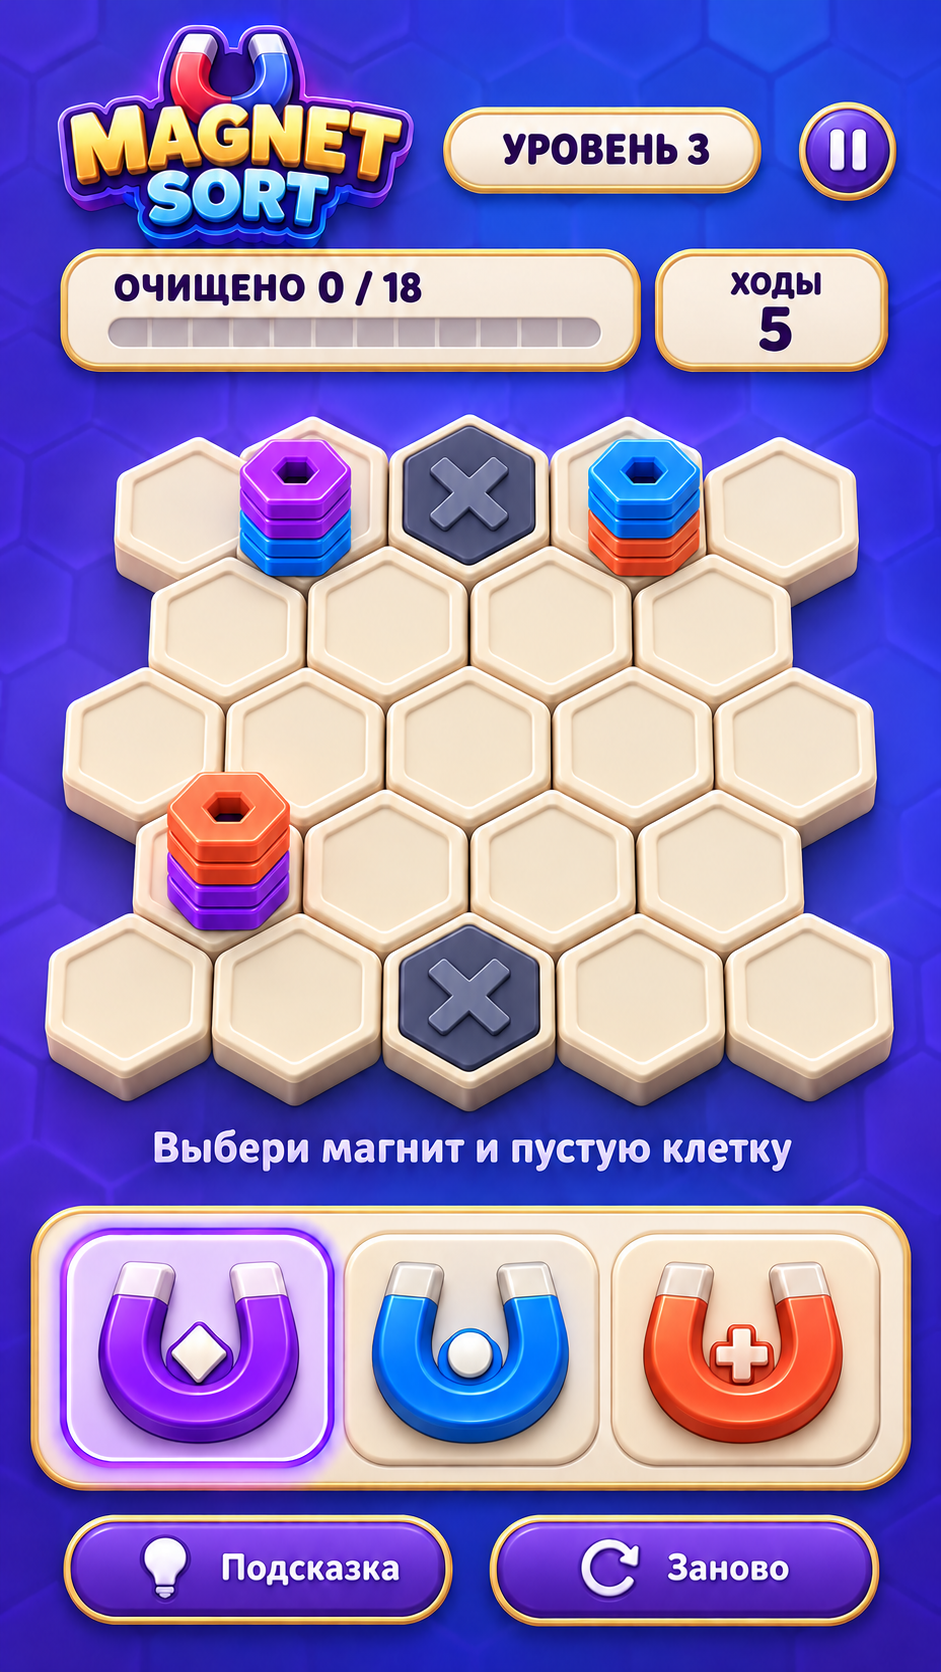
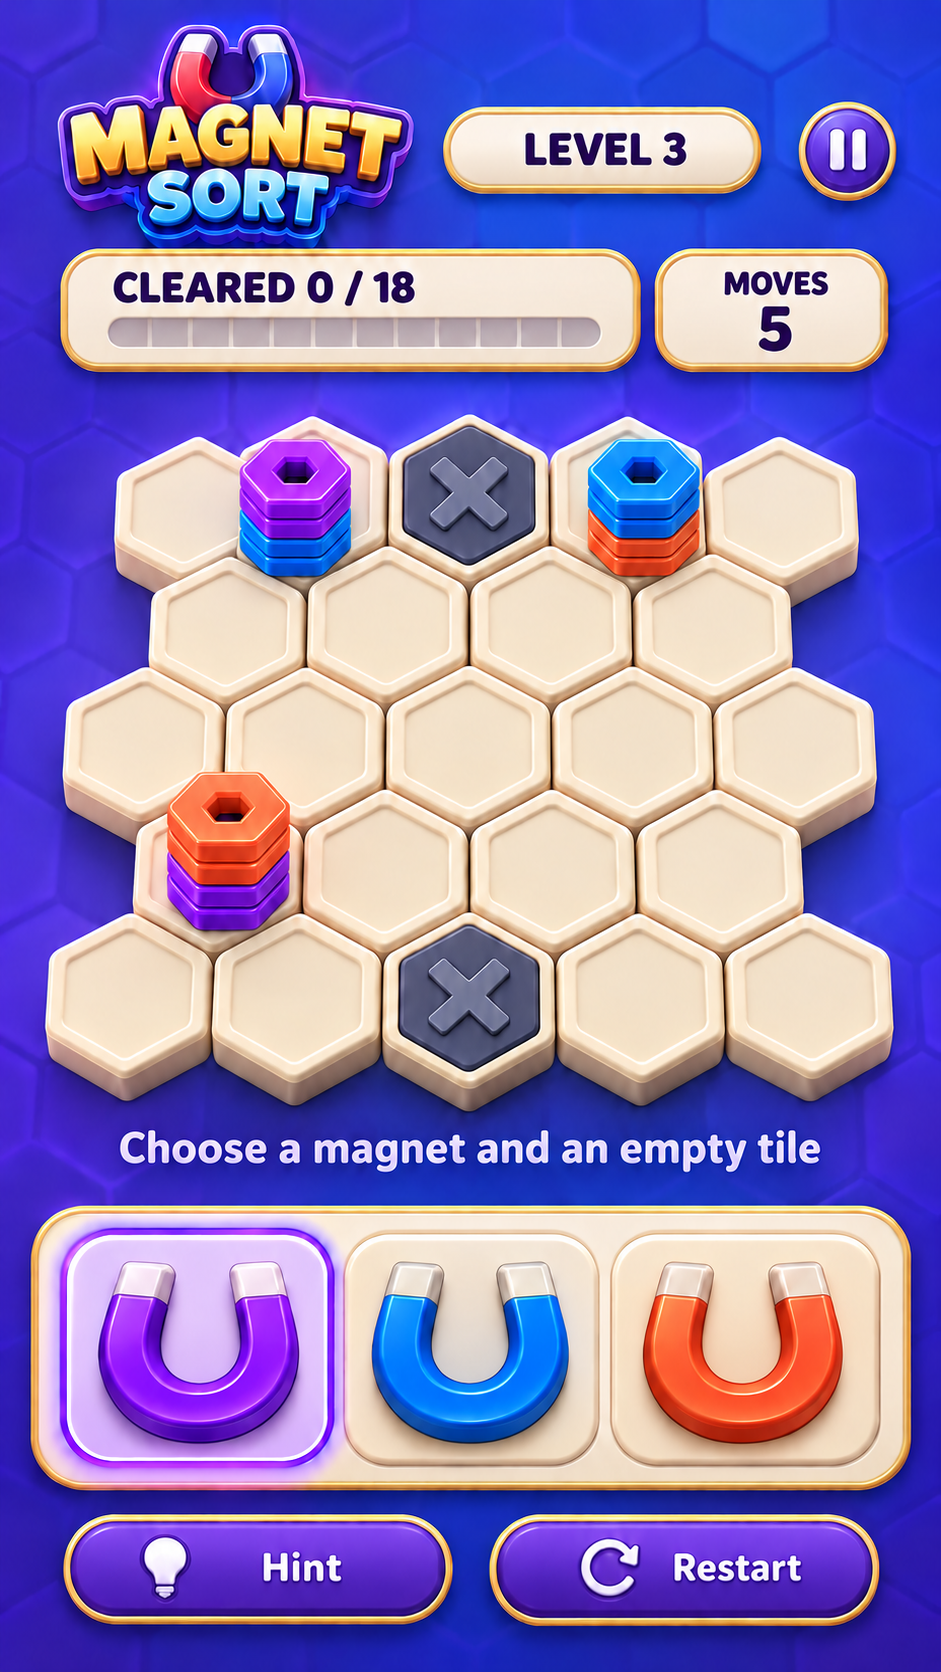
design: translate mockups to English and simplify magnets

diff --git a/docs/design/mockups/2026-10-09-facebook-casual/index.html b/docs/design/mockups/2026-10-09-facebook-casual/index.html
@@ -1,8 +1,8 @@
 <!doctype html>
-<html lang="ru">
+<html lang="en">
 <head>
 <meta charset="UTF-8"><meta name="viewport" content="width=device-width,initial-scale=1">
-<title>Magnet Sort · 12 состояний</title>
+<title>Magnet Sort · 12 game states</title>
 <style>
 :root{color-scheme:dark;font-family:Inter,system-ui,sans-serif;background:#12121b;color:#f6f3ff}
 *{box-sizing:border-box}body{margin:0}button,a{-webkit-tap-highlight-color:transparent}
@@ -30,37 +30,37 @@ dialog::backdrop{background:#08060be8;backdrop-filter:blur(8px)}.viewer{display:
 </style>
 </head>
 <body>
-<header><div class="eyebrow">Визуальная концепция · 09 октября 2026</div>
+<header><div class="eyebrow">Visual concept · 09 October 2026 · English revision</div>
 <h1>Magnet Sort</h1>
-<p>12 мобильных экранов в ярком casual-стиле. Объёмные элементы, магниты и короткие перелёты по одному. Нажми на экран, чтобы рассмотреть детали.</p>
-<nav aria-label="Фильтр состояний">
-<button data-filter="all" aria-pressed="true">Все · 12</button>
-<button data-filter="play" aria-pressed="false">Игра · 7</button>
-<button data-filter="overlay" aria-pressed="false">Пауза и результат · 3</button>
-<button data-filter="service" aria-pressed="false">Запуск · 2</button>
+<p>12 mobile screens in a bright casual style. Glossy pieces, plain color-coded magnets and quick one-piece transfers. Select a screen to explore the details.</p>
+<nav aria-label="Filter game states">
+<button data-filter="all" aria-pressed="true">All · 12</button>
+<button data-filter="play" aria-pressed="false">Gameplay · 7</button>
+<button data-filter="overlay" aria-pressed="false">Pause & results · 3</button>
+<button data-filter="service" aria-pressed="false">Launch · 2</button>
 </nav></header>
 <main><div class="grid" id="grid"></div></main>
-<footer>Мокапы сгенерированы через imagegen; интерфейс игры пока не изменён. Геометрия и раскладка поля иллюстративны — реализация использует реальные данные уровня.
-<br><a href="README.md">Описание и ограничения</a> · <a href="prompts.json">Все промпты</a></footer>
+<footer>Generated with imagegen; the game UI has not been changed. Board geometry and layouts are illustrative; implementation uses actual level data.
+<br><a href="README.md">Notes & limitations</a> · <a href="prompts.json">Prompt set</a></footer>
 <dialog id="detail" aria-labelledby="detail-title"><div class="viewer">
-<div class="toolbar"><h2 id="detail-title"></h2><button class="close" id="close" aria-label="Закрыть">×</button></div>
+<div class="toolbar"><h2 id="detail-title"></h2><button class="close" id="close" aria-label="Close">×</button></div>
 <div class="stage"><img id="full" alt=""></div>
-<div class="controls"><button id="prev" aria-label="Предыдущий экран">← Назад</button><a class="link" id="download" download>Скачать PNG</a><button id="next" aria-label="Следующий экран">Далее →</button></div>
+<div class="controls"><button id="prev" aria-label="Previous screen">← Previous</button><a class="link" id="download" download>Download PNG</a><button id="next" aria-label="Next screen">Next →</button></div>
 <p class="caption" id="caption"></p></div></dialog>
 <script>
-const screens=[{"id":"01-loading","label":"Загрузка","filename":"01-loading.png","category":"service","number":1,"note":"Первый запуск и подготовка поля."},{"id":"02-tutorial","label":"Обучение","filename":"02-tutorial.png","category":"play","number":2,"note":"Первое размещение магнита на пустую клетку."},{"id":"03-playing","label":"Поле готово","filename":"03-playing.png","category":"play","number":3,"note":"Ожидание выбора цвета и клетки."},{"id":"04-placement-valid","label":"Допустимое размещение","filename":"04-placement-valid.png","category":"play","number":4,"note":"Магнит над допустимой пустой клеткой."},{"id":"05-placement-invalid","label":"Недопустимое размещение","filename":"05-placement-invalid.png","category":"play","number":5,"note":"Занятая клетка: ход сохраняется."},{"id":"06-pulling","label":"Притяжение по одному","filename":"06-pulling.png","category":"play","number":6,"note":"Быстрые перелёты отдельных элементов в соседнюю клетку."},{"id":"07-clearing","label":"Очистка группы","filename":"07-clearing.png","category":"play","number":7,"note":"Шесть элементов собраны, группа исчезает."},{"id":"08-hint","label":"Подсказка","filename":"08-hint.png","category":"play","number":8,"note":"Подсвечен следующий допустимый ход."},{"id":"09-paused","label":"Пауза","filename":"09-paused.png","category":"overlay","number":9,"note":"Продолжение, перезапуск и уменьшение движения."},{"id":"10-victory","label":"Победа","filename":"10-victory.png","category":"overlay","number":10,"note":"Поле очищено, переход к следующему."},{"id":"11-defeat","label":"Поражение","filename":"11-defeat.png","category":"overlay","number":11,"note":"Ходы закончились, повтор уровня."},{"id":"12-render-error","label":"Ошибка и повтор","filename":"12-render-error.png","category":"service","number":12,"note":"Повтор запуска после ошибки 3D."}];
+const screens=[{"id":"01-loading","label":"Loading","filename":"01-loading.png","category":"service","number":1,"note":"First launch and board preparation."},{"id":"02-tutorial","label":"Tutorial","filename":"02-tutorial.png","category":"play","number":2,"note":"Place the first magnet on an empty tile."},{"id":"03-playing","label":"Ready to play","filename":"03-playing.png","category":"play","number":3,"note":"Choose a magnet color and an empty tile."},{"id":"04-placement-valid","label":"Valid placement","filename":"04-placement-valid.png","category":"play","number":4,"note":"A magnet over a valid empty tile."},{"id":"05-placement-invalid","label":"Invalid placement","filename":"05-placement-invalid.png","category":"play","number":5,"note":"An occupied tile: no move is spent."},{"id":"06-pulling","label":"Pulling one by one","filename":"06-pulling.png","category":"play","number":6,"note":"Individual pieces flip quickly to the neighboring tile."},{"id":"07-clearing","label":"Clearing a group","filename":"07-clearing.png","category":"play","number":7,"note":"Six collected pieces disappear."},{"id":"08-hint","label":"Hint","filename":"08-hint.png","category":"play","number":8,"note":"A suggested empty tile, before a move is spent."},{"id":"09-paused","label":"Paused","filename":"09-paused.png","category":"overlay","number":9,"note":"Resume, restart and reduced motion."},{"id":"10-victory","label":"Victory","filename":"10-victory.png","category":"overlay","number":10,"note":"The board is clear; continue to the next puzzle."},{"id":"11-defeat","label":"Out of moves","filename":"11-defeat.png","category":"overlay","number":11,"note":"Moves have run out; try the puzzle again."},{"id":"12-render-error","label":"Launch error","filename":"12-render-error.png","category":"service","number":12,"note":"Retry after a 3D initialization error."}];
 const grid=document.getElementById('grid'),dialog=document.getElementById('detail');
 let selected=0,filter='all';
 function visible(){return screens.filter(s=>filter==='all'||s.category===filter)}
 function render(){grid.replaceChildren(...visible().map(s=>{
  const card=document.createElement('figure');card.className='card';
- const button=document.createElement('button');button.className='preview';button.setAttribute('aria-label','Открыть: '+s.label);
- const img=document.createElement('img');img.src=s.filename;img.alt=s.label+' — '+s.note;img.loading='lazy';img.width=941;img.height=1672;button.append(img);
+ const button=document.createElement('button');button.className='preview';button.setAttribute('aria-label','Open: '+s.label);
+ const img=document.createElement('img');img.src=s.filename+'?v=en-plain-2';img.alt=s.label+' — '+s.note;img.loading='lazy';img.width=941;img.height=1672;button.append(img);
  button.addEventListener('click',()=>{selected=screens.indexOf(s);show();dialog.showModal()});
  const caption=document.createElement('figcaption'),title=document.createElement('h2'),num=document.createElement('span'),note=document.createElement('p');
  num.className='number';num.textContent=String(s.number).padStart(2,'0');title.append(num,document.createTextNode(s.label));note.textContent=s.note;caption.append(title,note);card.append(button,caption);return card
 }))}
-function show(){const s=screens[selected];document.getElementById('detail-title').textContent=String(s.number).padStart(2,'0')+' / 12 · '+s.label;const img=document.getElementById('full');img.src=s.filename;img.alt=s.label;document.getElementById('download').href=s.filename;document.getElementById('caption').textContent=s.note}
+function show(){const s=screens[selected];document.getElementById('detail-title').textContent=String(s.number).padStart(2,'0')+' / 12 · '+s.label;const img=document.getElementById('full');img.src=s.filename+'?v=en-plain-2';img.alt=s.label;document.getElementById('download').href=s.filename;document.getElementById('caption').textContent=s.note}
 function step(offset){const list=visible(),index=list.indexOf(screens[selected]);selected=screens.indexOf(list[(index+offset+list.length)%list.length]);show()}
 document.querySelectorAll('[data-filter]').forEach(button=>button.addEventListener('click',()=>{filter=button.dataset.filter;document.querySelectorAll('[data-filter]').forEach(b=>b.setAttribute('aria-pressed',String(b===button)));render()}));
 document.getElementById('close').onclick=()=>dialog.close();

diff --git a/docs/design/mockups/2026-10-09-facebook-casual/README.md b/docs/design/mockups/2026-10-09-facebook-casual/README.md
@@ -2,6 +2,8 @@
 
 Дата: 2026-10-09. [Открыть галерею](index.html).
 
+Редакция 2: все надписи на 12 мокапах и в галерее переведены на английский. Убраны декоративные ромб, круг, плюс и другие метки на магнитах, включая магниты на поле и в модальных окнах. Цвет и рамка выбранного инструмента сохранены. Функциональные X препятствий, кнопка закрытия, пауза, стрелки и «+6» очистки остаются.
+
 12 самостоятельных мобильных PNG, сгенерированных встроенным **image_gen**. Это предложение по оформлению активного Three.js-прототипа; интерфейс runtime этим набором не изменён.
 
 ## Экраны
@@ -23,7 +25,7 @@
 
 ## Направление
 
-Фиолетово-синий фон, светлые округлые панели, объёмные цветные шестигранные кольца, узнаваемый подковообразный магнит, крупная зелёная основная кнопка. Русские короткие подписи и читаемый счётчик ходов. В центре внимания — поле и действие игрока.
+Фиолетово-синий фон, светлые округлые панели, объёмные цветные шестигранные кольца, узнаваемый подковообразный магнит без дополнительных знаков, крупная зелёная основная кнопка. Английские короткие подписи и читаемый счётчик ходов. В центре внимания — поле и действие игрока.
 
 Игрок размещает магнит на пустую клетку. Отдельные открытые элементы перелетают быстро по одному в соседнюю клетку. Цветные смешанные стопки остаются читаемыми; группа из шести очищается. Ошибка размещения не тратит ход.
 
@@ -45,7 +47,7 @@
 
 ## Генерация и проверка
 
-[Полный набор промптов](prompts.json) содержит общую art direction, исходный brief и последний фактически использованный prompt каждого изображения. Базовый экран создан отдельно; остальные приведены к его стилю через image-to-image. Неудачные варианты заменены перед сохранением финального набора. Оригиналы инструмента сохранены в `.codex/generated_images`.
+[Полный набор промптов](prompts.json) содержит действующее направление, английские названия состояний и последний фактически использованный prompt редактирования каждого изображения. Предыдущие brief и prompt сохранены отдельно в `previousGeneration` для истории; они не задают требования текущей версии. Все 12 экранов изменены через встроенный image_gen с сохранением композиции. Оригиналы инструмента сохранены в `.codex/generated_images`.
 
 Все 12 финальных изображений просмотрены, размер каждого — 941 × 1672 px. Галерея поддерживает фильтры, увеличение, переход между экранами, Escape/стрелки и скачивание PNG.
 
